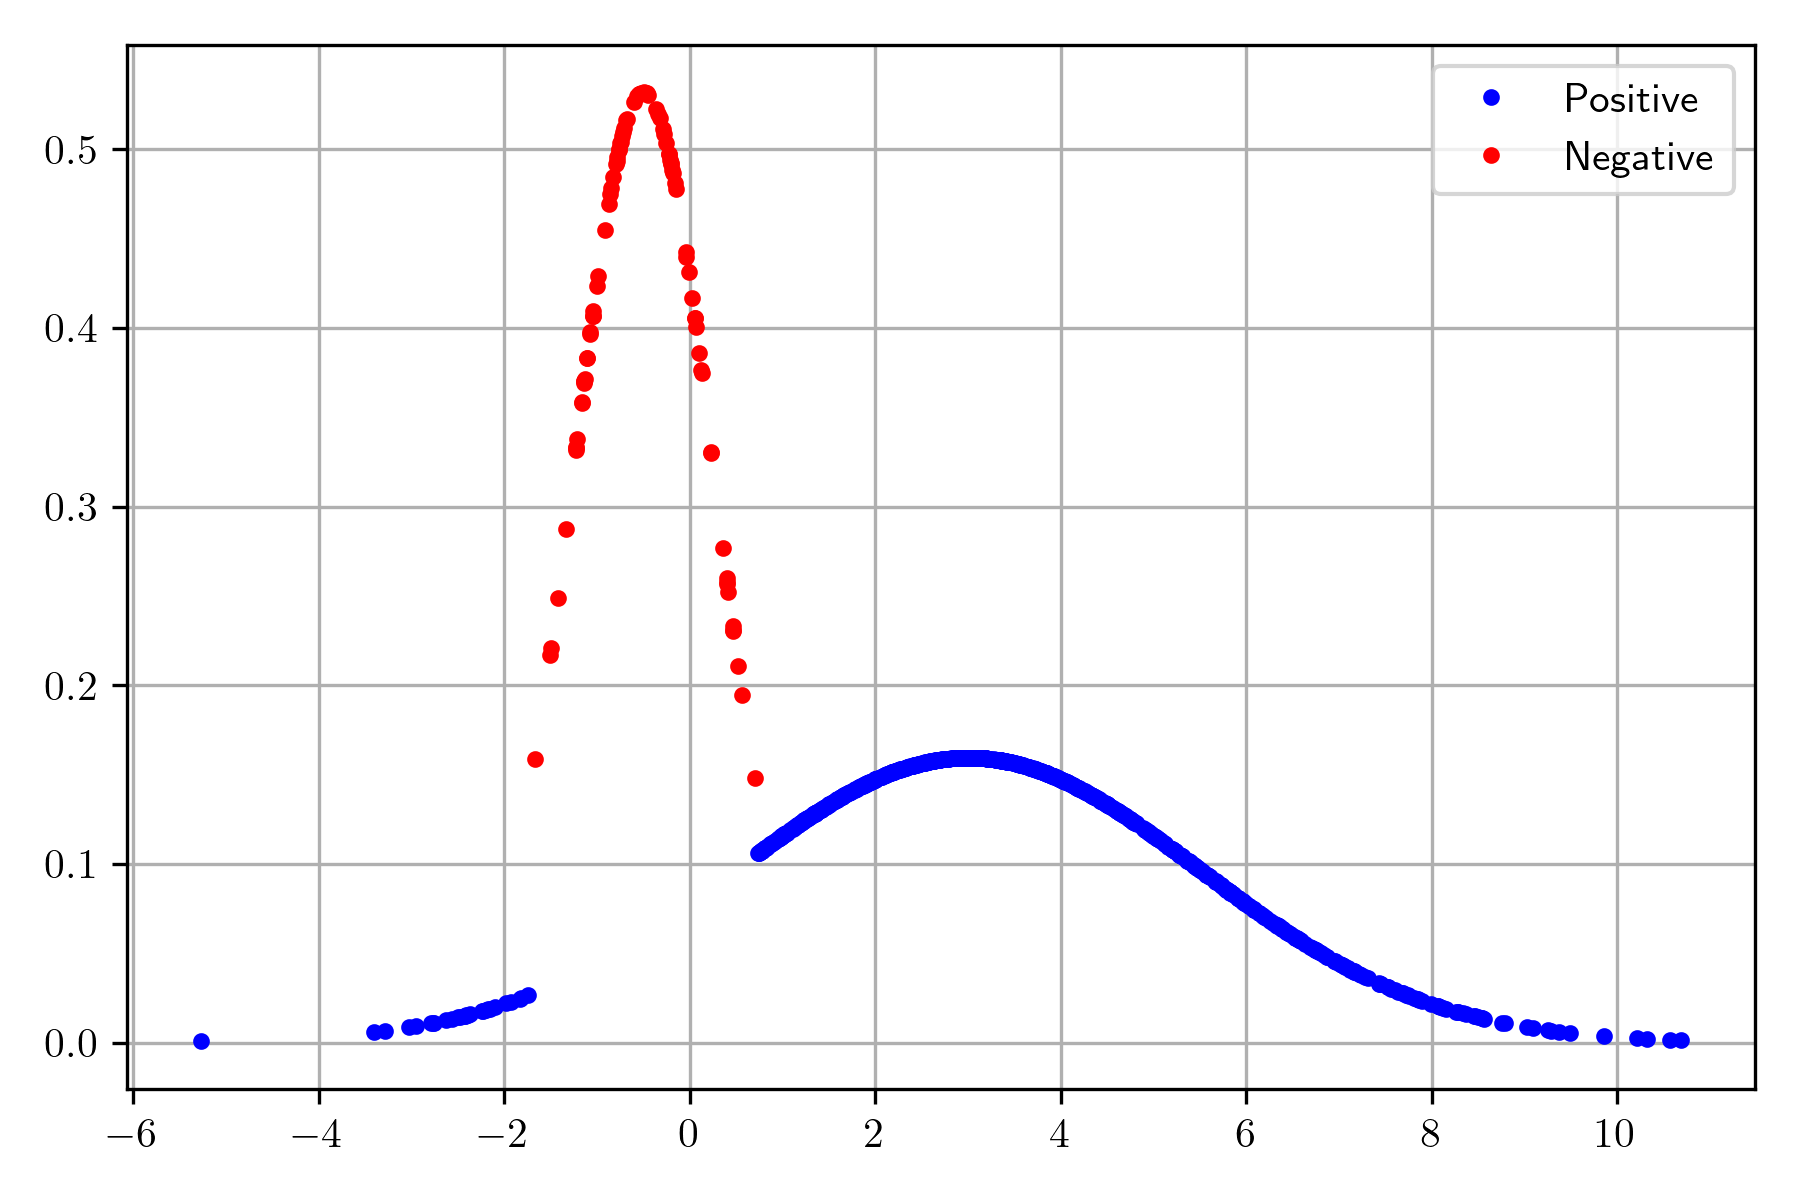
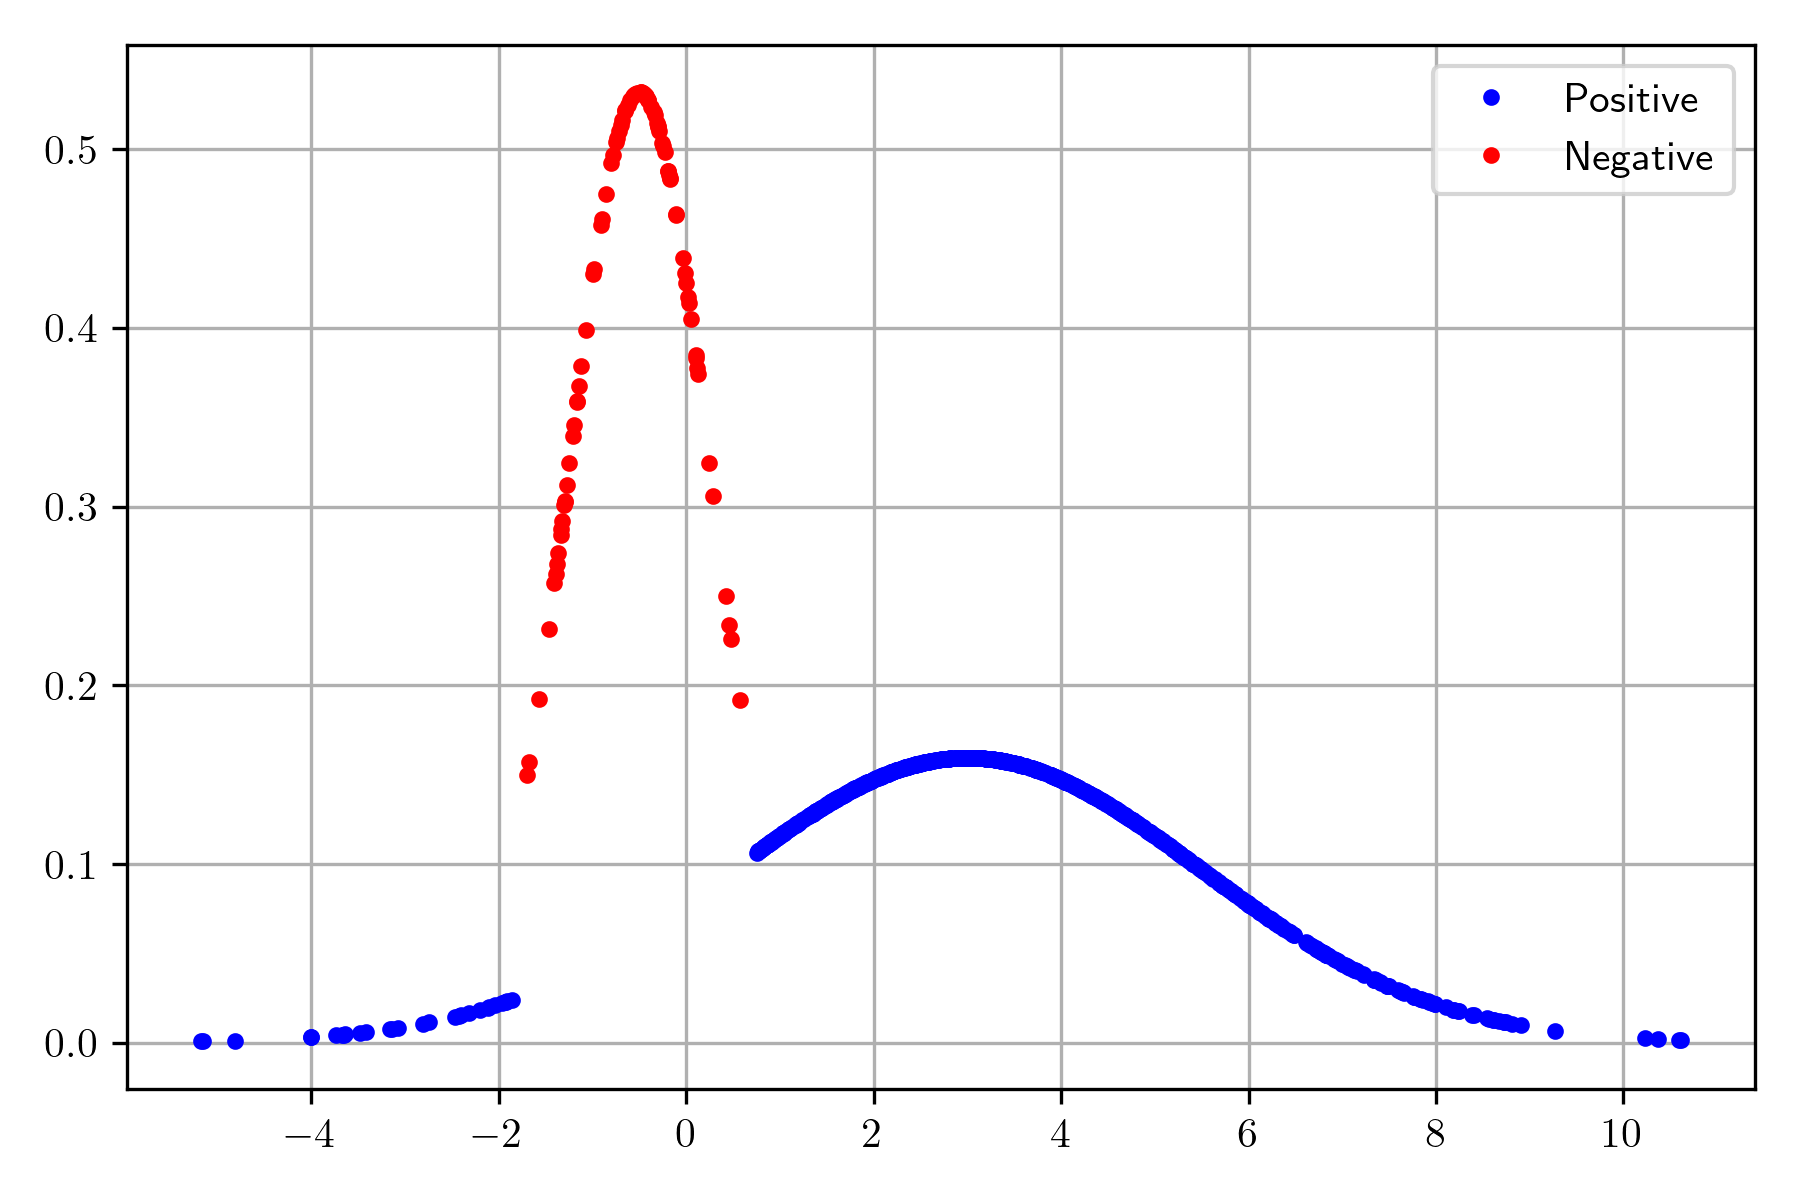
bayes

diff --git a/code/06TextCategorization.py b/code/06TextCategorization.py
@@ -1,4 +1,3 @@
-from matplotlib.pyplot import axis
 import numpy as np
 from b4msa.textmodel import TextModel
 from EvoMSA.tests.test_base import TWEETS
@@ -42,10 +41,8 @@ plt.legend(['Positive', 'Negative'])
 plt.tight_layout()
 plt.savefig('two_normal_samples.png', dpi=300)
 
-l_pos = norm(loc=np.mean([x for x, k in D if k == 1]),
-             scale=np.std([x for x, k in D if k == 1]))
-l_neg = norm(loc=np.mean([x for x, k in D if k == 0]),
-             scale=np.std([x for x, k in D if k == 0]))            
+l_pos = norm(*norm.fit([x for x, k in D if k == 1]))
+l_neg = norm(*norm.fit([x for x, k in D if k == 0]))
 
 _, priors = np.unique([k for _, k in D], return_counts=True)
 N = priors.sum()
@@ -68,9 +65,10 @@ plt.plot(x, post_neg, 'r')
 
 plt.legend([r'$P(\mathcal Y=1 \mid \mathcal X)$',
             r'$P(\mathcal Y=0 \mid \mathcal X)$'])
-plt.tight_layout()
+plt.xlabel(r'$\mathcal x$')
 plt.grid()
-plt.savefig('two_classes_posteriori.png', dpi=300)
+plt.tight_layout()
+plt.savefig('two_classes_posterior.png', dpi=300)
 
 
 klass = lambda x: 1 if l_pos.pdf(x) * prior_pos > l_neg.pdf(x) * prior_neg else 0
@@ -88,7 +86,7 @@ plt.plot([x for x, k in D if k==0 and klass(x) == 1],
 
 plt.tight_layout()
 plt.grid()
-plt.savefig('two_classes_posteriori_error.png', dpi=300)
+plt.savefig('two_classes_posterior_error.png', dpi=300)
 
 # Categorical distribution 
 

diff --git a/topics/06TextCategorization.md b/topics/06TextCategorization.md
@@ -19,8 +19,15 @@ nav_order: 6
 import numpy as np
 from b4msa.textmodel import TextModel
 from EvoMSA.tests.test_base import TWEETS
-from scipy.stats import norm
+from microtc.utils import tweet_iterator
+from scipy.stats import norm, multinomial
 from matplotlib import pylab as plt
+from collections import Counter
+from sklearn.model_selection import StratifiedKFold
+from scipy.special import logsumexp
+from sklearn.metrics import recall_score, precision_score, f1_score
+from EvoMSA.utils import bootstrap_confidence_interval
+from sklearn.naive_bayes import MultinomialNB
 ```
 
 ## Installing external libraries
@@ -81,7 +88,7 @@ neg = norm(loc=-0.5, scale=0.75)
 
 ![Two Normals](/NLP-Course/assets/images/two_normals.png)
 
-
+The normal associated with the negative class is sampled 100 times; however, the sampled elements in the tail corresponding to a mass lower than 0.05 or higher than 0.95 are discarded. The distribution of the positive class is sampled 1000 times using the constraint that the points in the interval of the negative class are not considered.  
 
 ```python
 _min = neg.ppf(0.05)
@@ -90,14 +97,20 @@ D = [(x, 0) for x in neg.rvs(100) if x >= _min and x <= _max]
 D += [(x, 1) for x in pos.rvs(1000) if x < _min or x > _max]
 ```
 
+The following picture shows the distribution of the positive and negative classes; it can be observed that the two classes are separated by the constraints imposed. These points will be used to illustrate the procedure to estimate the posterior distribution given a dataset; the dataset is $$\mathcal D=\{(x_i, y_i \mid i=1, \ldots, N)\}$$ where $$x_i \in \mathbb R$$ and $$y_i \in \{0, 1\}$$.
+
 ![Two Normal Samples](/NLP-Course/assets/images/two_normal_samples.png)
 
-```python
-l_pos = norm(loc=np.mean([x for x, k in D if k == 1]),
-             scale=np.std([x for x, k in D if k == 1]))
-l_neg = norm(loc=np.mean([x for x, k in D if k == 0]),
-             scale=np.std([x for x, k in D if k == 0]))            
+The first step is to estimate the likelihood, i.e., $$\mathbb P(\mathcal X \mid \mathcal Y)$$ where $$\mathcal Y=1$$ and $$\mathcal Y=0$$. It is assumed that the likelihood is normally distributed; thus, it requires estimating the mean and the standard deviation, which can be done with the following code. 
 
+```python
+l_pos = norm(*norm.fit([x for x, k in D if k == 1]))
+l_neg = norm(*norm.fit([x for x, k in D if k == 0]))
+```
+
+The second step is to compute the prior, i.e., $$\mathbb P(\mathcal Y)$$ which corresponds to estimating the parameters of a Categorical distribution; the following code relies on the use of `np.unique` to estimate them.
+
+```python
 _, priors = np.unique([k for _, k in D], return_counts=True)
 N = priors.sum()
 prior_pos = priors[1] / N
@@ -116,9 +129,9 @@ post_pos /= evidence
 post_neg /= evidence
 ```
 
-![Posteriori of Two Classes](/NLP-Course/assets/images/two_classes_posteriori.png)
+![Posterior of Two Classes](/NLP-Course/assets/images/two_classes_posterior.png)
 
-![Posteriori Errors](/NLP-Course/assets/images/two_classes_posteriori_error.png)
+![Posterior Errors](/NLP-Course/assets/images/two_classes_posterior_error.png)
 
 # Categorical distribution
 
